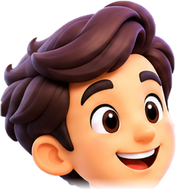
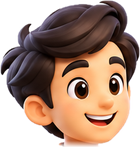
Slim Hector365 mascot

diff --git a/components/MascotGuide.js b/components/MascotGuide.js
@@ -7,10 +7,13 @@ import { useCallback, useEffect, useRef, useState } from "react";
 
 const NO_RULES = [];
 const KEY = "mascot_guide_on";
-const W = 64;
-const H = 92;
-const DOCK_SCALE = 0.74;
-const MOVE_MS = 800;
+const SCALE = 0.85; // mascot ka size: chhota/bada karna ho to sirf ye number badlo
+const VB_W = 40;
+const VB_H = 74;
+const W = Math.round(VB_W * SCALE);
+const H = Math.round(VB_H * SCALE);
+const DOCK_SCALE = 0.85;
+const MOVE_MS = 900;
 const ACTIVITIES = ["wipe", "sweep", "polish", "wave"];
 
 const RULES = [
@@ -22,6 +25,7 @@ const RULES = [
   [/delete|remove|hatao|hata do|cancel/, "Dhyan se! Ye hatane ke baad wapas nahi aayega."],
   [/save|update|submit|confirm|\bdone\b|bhej/, "Ye aapki bhari hui jaankari save kar dega."],
   [/search|find|khoj|dhoond/, "Yaha kaam ya naam likho, aapke shehar ke matching log dikh jayenge."],
+  [/dismiss|not now|later|abhi nahi/, "Ye is message ko abhi ke liye hata dega."],
   [/back|close|wapas|✕|×/, "Ye pichhli screen par wapas le jayega."],
   [/install/, "Ye app ko aapke phone ki home screen par laga dega, bilkul normal app ki tarah."],
   [/whatsapp/, "Ye seedha WhatsApp kholega, wahi se baat kar sakte ho."],
@@ -69,48 +73,54 @@ function findLogo() {
 const clamp = (v, a, b) => Math.max(a, Math.min(b, v));
 const home = () => ({ x: window.innerWidth - W - 14, y: window.innerHeight - H - 90 });
 
-// Poora chhota mascot: chehra (tumhari image se) + SVG body. Kapde par sirf "hector365".
+const SKIN = "#F4B88A";
+const ORANGE = "#F28A1E";
+const NAVY = "#243B6B";
+
+// Patla lamba mascot: chehra (tumhari image se) + SVG body. Kapde par sirf "Hector365".
 function Character({ pose, flip }) {
   return (
-    <svg className={`mc mc-${pose}${flip ? " mc-flip" : ""}`} viewBox="0 0 64 92" width={W} height={H}
+    <svg className={`mc mc-${pose}${flip ? " mc-flip" : ""}`} viewBox={`0 0 ${VB_W} ${VB_H}`} width={W} height={H}
       style={{ display: "block", overflow: "visible", transform: flip ? "scaleX(-1)" : "none" }} aria-hidden="true">
-      <ellipse cx="32" cy="89" rx="17" ry="3" fill="rgba(40,30,70,.2)" />
+      <ellipse cx="20" cy="70.8" rx="10" ry="1.7" fill="rgba(30,30,60,.2)" />
       <g className="mc-bob">
-        {/* legs */}
-        <g className="mc-l-leg"><rect x="22" y="62" width="8" height="19" rx="3.5" fill="#3A3470" /><rect x="19.5" y="78" width="12.5" height="7" rx="3.5" fill="#25203F" /></g>
-        <g className="mc-r-leg"><rect x="34" y="62" width="8" height="19" rx="3.5" fill="#3A3470" /><rect x="32" y="78" width="12.5" height="7" rx="3.5" fill="#25203F" /></g>
-        {/* torso + apron */}
-        <rect x="17" y="43" width="30" height="26" rx="9" fill="#FBFAFF" />
-        <path d="M21 49 h22 v19 a4 4 0 0 1 -4 4 h-14 a4 4 0 0 1 -4 -4z" fill="#5B34B5" />
-        <path d="M23 49 L27 43 M41 49 L37 43" stroke="#5B34B5" strokeWidth="2.2" strokeLinecap="round" />
-        <text className="mc-tx" x="32" y="62.5" fontSize="5.4" fontWeight="800" fill="#FFFFFF" textAnchor="middle"
-          textLength="19" lengthAdjust="spacingAndGlyphs" style={{ fontFamily: "Arial, Helvetica, sans-serif" }}>hector365</text>
+        <g className="mc-l-leg"><rect x="14.1" y="45.5" width="5.4" height="21" rx="2.5" fill={NAVY} /><rect x="12.6" y="64.2" width="8" height="4.2" rx="2.1" fill="#F6F6FA" stroke="#D6D6E2" strokeWidth=".3" /><rect x="12.6" y="66.2" width="8" height=".8" fill={ORANGE} /></g>
+        <g className="mc-r-leg"><rect x="20.5" y="45.5" width="5.4" height="21" rx="2.5" fill={NAVY} /><rect x="19.4" y="64.2" width="8" height="4.2" rx="2.1" fill="#F6F6FA" stroke="#D6D6E2" strokeWidth=".3" /><rect x="19.4" y="66.2" width="8" height=".8" fill={ORANGE} /></g>
+        {/* polo shirt */}
+        <path d="M11.5 31.5 Q11.5 28 15.5 28 H24.5 Q28.5 28 28.5 31.5 L27.6 46.5 H12.4Z" fill="#FBFAFF" stroke="#E7E4F0" strokeWidth=".3" />
+        <path d="M15.6 27.6 L20 33.8 L24.4 27.6 L22.8 27.1 L20 30.9 L17.2 27.1Z" fill={ORANGE} />
+        <text className="mc-tx" x="20" y="39.6" fontSize="4.1" fontWeight="800" fontStyle="italic" fill={NAVY} textAnchor="middle"
+          textLength="13.5" lengthAdjust="spacingAndGlyphs" style={{ fontFamily: "Arial, Helvetica, sans-serif" }}>Hector365</text>
+        <path d="M14 41.3 Q20 43.2 26 40.6" stroke={ORANGE} strokeWidth=".8" fill="none" strokeLinecap="round" />
         {/* neck + head */}
-        <rect x="28" y="38" width="8" height="9" rx="3" fill="#F2B98F" />
-        <g className="mc-head"><image href="/mascot.png" x="8.5" y="-4" width="47" height="50.5" /></g>
+        <rect x="17.4" y="23" width="5.2" height="7" rx="2" fill={SKIN} />
+        <g className="mc-head"><image href="/mascot.png" x="7.5" y="-1.5" width="25" height="26.3" /></g>
         {/* left arm */}
-        <g className="mc-l-arm"><rect x="12.5" y="47.5" width="7.5" height="12" rx="3.7" fill="#FBFAFF" /><rect x="12.5" y="56" width="7.5" height="3.6" rx="1.8" fill="#6B3FD4" /><circle cx="16.3" cy="63" r="3.7" fill="#F2B98F" /></g>
+        <g className="mc-l-arm">
+          <rect x="7.8" y="35.6" width="3.4" height="7.4" rx="1.7" fill={SKIN} /><circle cx="9.5" cy="43.4" r="2.1" fill={SKIN} />
+          <rect x="7" y="28.4" width="5" height="7.4" rx="2.4" fill="#FBFAFF" stroke="#E7E4F0" strokeWidth=".3" /><rect x="7" y="34.2" width="5" height="1.8" rx=".9" fill={ORANGE} />
+        </g>
         {/* broom (sweep) */}
-        <g className="mc-broom"><rect x="55" y="52" width="2" height="34" rx="1" fill="#A9743D" /><path d="M51 86 h10 l2 5 h-14z" fill="#E0B84A" /></g>
+        <g className="mc-broom"><rect x="33.6" y="30" width="1.3" height="39" rx=".6" fill="#A9743D" /><path d="M31.4 67.5 h6.1 l1.2 4 h-8.5z" fill="#E0B84A" /></g>
         {/* right arm */}
         <g className="mc-r-arm">
-          <rect className="mc-cloth" x="43" y="62" width="10" height="8" rx="2.5" fill="#F6D56A" stroke="#E0B84A" strokeWidth=".6" />
-          <rect x="44" y="47.5" width="7.5" height="12" rx="3.7" fill="#FBFAFF" /><rect x="44" y="56" width="7.5" height="3.6" rx="1.8" fill="#6B3FD4" />
-          <circle cx="47.8" cy="63" r="3.7" fill="#F2B98F" />
+          <rect className="mc-cloth" x="27.4" y="41.4" width="6.4" height="5.2" rx="1.6" fill="#F6D56A" stroke="#E0B84A" strokeWidth=".4" />
+          <rect x="28.6" y="35.6" width="3.4" height="7.4" rx="1.7" fill={SKIN} /><circle cx="30.3" cy="43.4" r="2.1" fill={SKIN} />
+          <rect x="28" y="28.4" width="5" height="7.4" rx="2.4" fill="#FBFAFF" stroke="#E7E4F0" strokeWidth=".3" /><rect x="28" y="34.2" width="5" height="1.8" rx=".9" fill={ORANGE} />
         </g>
       </g>
     </svg>
   );
 }
 
-export default function MascotGuide({ name = "Saathi", accent = "#6B3FD4", rules = NO_RULES }) {
+export default function MascotGuide({ name = "Saathi", accent = "#F28A1E", rules = NO_RULES }) {
   const [mounted, setMounted] = useState(false);
   const [on, setOn] = useState(true);
   const [pos, setPos] = useState({ x: 0, y: 0 });
   const [left, setLeft] = useState(false);
   const [moving, setMoving] = useState(false);
   const [hidden, setHidden] = useState(false);
-  const [bubble, setBubble] = useState(null);
+  const [bubble, setBubble] = useState(null); // { text, kind: tip | ask | note }
   const [typed, setTyped] = useState("");
   const [act, setAct] = useState(0);
   const posRef = useRef(pos);
@@ -133,8 +143,8 @@ export default function MascotGuide({ name = "Saathi", accent = "#6B3FD4", rules
     moveTimer.current = setTimeout(() => setMoving(false), reduce ? 0 : MOVE_MS);
   }, [reduce]);
 
-  const say = useCallback((text, ms) => {
-    setBubble({ text });
+  const say = useCallback((text, ms, kind = "tip") => {
+    setBubble({ text, kind });
     clearTimeout(hideTimer.current);
     hideTimer.current = setTimeout(() => setBubble(null), ms || Math.max(5200, text.length * 75));
   }, []);
@@ -145,7 +155,7 @@ export default function MascotGuide({ name = "Saathi", accent = "#6B3FD4", rules
     let isOn = true;
     try { isOn = localStorage.getItem(KEY) !== "0"; } catch (e) { /* ignore */ }
     setOn(isOn);
-    setPos(isOn ? { x: window.innerWidth + 10, y: window.innerHeight - H - 90 } : { x: 8, y: 8 });
+    setPos(isOn ? { x: window.innerWidth + 10, y: window.innerHeight - H - 90 } : { x: 8, y: 2 });
     setMounted(true);
     if (!isOn) return;
     let greeted = false;
@@ -155,7 +165,7 @@ export default function MascotGuide({ name = "Saathi", accent = "#6B3FD4", rules
       if (greeted || !onRef.current) return;
       try { sessionStorage.setItem("mascot_greeted", "1"); } catch (e) { /* ignore */ }
       say(`Namaste! Main ${name} hoon. Kahin bhi dabao, main wahan aakar samjha dunga.`, 6500);
-    }, 3600);
+    }, 3700);
     return () => { clearTimeout(t1); clearTimeout(t2); };
     // eslint-disable-next-line react-hooks/exhaustive-deps
   }, []);
@@ -168,7 +178,7 @@ export default function MascotGuide({ name = "Saathi", accent = "#6B3FD4", rules
       i += 1;
       setTyped(bubble.text.slice(0, i));
       if (i >= bubble.text.length) clearInterval(id);
-    }, reduce ? 0 : 22);
+    }, reduce ? 0 : 24);
     return () => clearInterval(id);
   }, [bubble, reduce]);
 
@@ -188,7 +198,7 @@ export default function MascotGuide({ name = "Saathi", accent = "#6B3FD4", rules
       const vw = window.innerWidth, vh = window.innerHeight;
       const px = e.clientX || vw / 2, py = e.clientY || vh / 2;
       const x = px + W + 20 > vw ? clamp(px - W - 12, 4, vw - W - 4) : clamp(px + 10, 4, vw - W - 4);
-      const y = py < 140 ? clamp(py + 18, 4, vh - H - 4) : clamp(py - H - 4, 4, vh - H - 4);
+      const y = py < 120 ? clamp(py + 16, 4, vh - H - 4) : clamp(py - H - 2, 4, vh - H - 4);
       moveTo(x, y);
       setBubble(null);
       setTimeout(() => { if (onRef.current) say(text); }, reduce ? 0 : MOVE_MS - 100);
@@ -204,7 +214,7 @@ export default function MascotGuide({ name = "Saathi", accent = "#6B3FD4", rules
       if (a && /^(input|textarea|select)$/i.test(a.tagName)) return;
       const vw = window.innerWidth, vh = window.innerHeight;
       moveTo(clamp(Math.random() * (vw - W - 20) + 6, 6, vw - W - 6), vh - H - 90);
-    }, 16000);
+    }, 17000);
     return () => clearInterval(id);
   }, [moveTo]);
 
@@ -215,8 +225,8 @@ export default function MascotGuide({ name = "Saathi", accent = "#6B3FD4", rules
       const r = findLogo();
       if (r) {
         setHidden(false);
-        const x = clamp(r.right - 8, 0, window.innerWidth - W);
-        const y = Math.max(2, r.bottom + 4 - H);
+        const x = clamp(r.right - 4, 0, window.innerWidth - W);
+        const y = Math.max(2, r.bottom + 3 - H);
         const cur = posRef.current;
         if (Math.abs(cur.x - x) > 1 || Math.abs(cur.y - y) > 1) moveTo(x, y);
       } else if (window.scrollY < 60) {
@@ -229,7 +239,7 @@ export default function MascotGuide({ name = "Saathi", accent = "#6B3FD4", rules
     place();
     const tl = setTimeout(() => setLeft(true), reduce ? 0 : MOVE_MS + 80); // logo ki taraf muh
     const id = setInterval(place, 500);
-    const id2 = setInterval(() => setAct((a) => (a + 1) % ACTIVITIES.length), 4500);
+    const id2 = setInterval(() => setAct((a) => (a + 1) % ACTIVITIES.length), 5000);
     window.addEventListener("resize", place);
     return () => { clearTimeout(tl); clearInterval(id); clearInterval(id2); window.removeEventListener("resize", place); };
   }, [on, moveTo, reduce]);
@@ -237,19 +247,24 @@ export default function MascotGuide({ name = "Saathi", accent = "#6B3FD4", rules
   function turnOff() {
     setOn(false); persist(false);
     setLeft(true);
-    say("Theek hai! Main logo ke paas ja raha hoon. Wahan safai karta rahunga. Mujhe dabaoge to wapas guide karunga.", 4200);
+    say("Theek hai! Main logo ke paas ja raha hoon. Mujhe dabaoge to wapas guide karunga.", 3800, "note");
   }
 
   function turnOn() {
     setOn(true); persist(true);
     setLeft(false);
+    setBubble(null);
     const h = home();
     moveTo(h.x, h.y);
     setTimeout(() => say("Main wapas aa gaya! Kahin bhi dabao, main wahan aakar samjha dunga."), reduce ? 0 : MOVE_MS - 100);
   }
 
   function onMascotClick() {
-    if (!on) { turnOn(); return; }
+    if (!on) {
+      if (bubble && bubble.kind === "ask") { setBubble(null); return; }
+      say("Kya main aapko guide karun?", 9000, "ask");
+      return;
+    }
     if (bubble) { setBubble(null); return; }
     say("Kisi bhi button ya link ko dabao, main wahan aakar batata hoon ki wo kya karta hai.");
   }
@@ -257,95 +272,102 @@ export default function MascotGuide({ name = "Saathi", accent = "#6B3FD4", rules
   if (!mounted) return null;
 
   const vw = typeof window !== "undefined" ? window.innerWidth : 360;
-  const bw = Math.min(250, vw - 20);
+  const bw = Math.min(205, vw - 20);
   const bx = clamp(pos.x + W / 2 - bw / 2, 10, vw - bw - 10) - pos.x;
-  const above = pos.y > 150;
-  const tail = clamp(W / 2 - bx - 6, 14, bw - 24);
+  const above = pos.y > 110;
+  const tail = clamp(W / 2 - bx - 5, 12, bw - 22);
   const activity = ACTIVITIES[act];
-  const pose = on ? (moving ? "walk" : bubble ? "talk" : "idle") : (moving ? "walk" : activity);
-  const showSparks = !on && (activity === "wipe" || activity === "polish");
+  const pose = on ? (moving ? "walk" : bubble ? "talk" : "idle") : (moving ? "walk" : bubble ? "talk" : activity);
+  const showSparks = !on && !bubble && (activity === "wipe" || activity === "polish");
+  const btn = { whiteSpace: "nowrap", border: "none", borderRadius: 999, padding: "4px 11px", fontWeight: 700, fontSize: 11, cursor: "pointer" };
 
   return (
     <div data-mascot="1" aria-live="polite" style={{
       position: "fixed", left: 0, top: 0, zIndex: 9000, pointerEvents: "none",
       transform: `translate(${pos.x}px, ${pos.y}px)`,
-      transition: reduce ? "none" : `transform ${MOVE_MS}ms cubic-bezier(.4,.1,.2,1), opacity .3s`,
+      transition: reduce ? "none" : `transform ${MOVE_MS}ms cubic-bezier(.45,.05,.3,1), opacity .3s`,
       opacity: hidden ? 0 : 1, width: W, height: H,
     }}>
       <style>{`
         .mc *{transform-box:view-box}
-        .mc-l-leg{transform-origin:26px 62px}.mc-r-leg{transform-origin:38px 62px}
-        .mc-l-arm{transform-origin:16px 49px}.mc-r-arm{transform-origin:48px 49px}
-        .mc-head{transform-origin:32px 42px}.mc-bob{transform-origin:32px 88px}
-        .mc-broom{transform-origin:56px 54px;display:none}.mc-cloth{display:none}
-        .mc-flip .mc-tx{transform:scaleX(-1);transform-origin:32px 61px}
-        @keyframes mcSwing{from{transform:rotate(-26deg)}to{transform:rotate(26deg)}}
-        @keyframes mcBob{from{transform:translateY(0)}to{transform:translateY(-2px)}}
-        @keyframes mcBreath{0%,100%{transform:translateY(0)}50%{transform:translateY(-1.2px)}}
-        @keyframes mcWaveA{from{transform:rotate(-140deg)}to{transform:rotate(-172deg)}}
-        @keyframes mcRub{from{transform:rotate(-100deg)}to{transform:rotate(-138deg)}}
-        @keyframes mcNod{from{transform:rotate(-3deg)}to{transform:rotate(3deg)}}
-        @keyframes mcSwish{from{transform:rotate(-14deg)}to{transform:rotate(12deg)}}
+        .mc-l-leg{transform-origin:16.8px 46px}.mc-r-leg{transform-origin:23.2px 46px}
+        .mc-l-arm{transform-origin:10.6px 30px}.mc-r-arm{transform-origin:29.4px 30px}
+        .mc-head{transform-origin:20px 24px}.mc-bob{transform-origin:20px 70px}
+        .mc-broom{transform-origin:34.2px 31px;display:none}.mc-cloth{display:none}
+        .mc-flip .mc-tx{transform:scaleX(-1);transform-origin:20px 38.5px}
+        .mc-l-leg,.mc-r-leg,.mc-l-arm,.mc-r-arm,.mc-head,.mc-bob,.mc-broom{transition:transform .5s ease}
+        @keyframes mcSwing{from{transform:rotate(-17deg)}to{transform:rotate(17deg)}}
+        @keyframes mcSwingArm{from{transform:rotate(-13deg)}to{transform:rotate(13deg)}}
+        @keyframes mcBob{from{transform:translateY(0)}to{transform:translateY(-.9px)}}
+        @keyframes mcBreath{0%,100%{transform:translateY(0)}50%{transform:translateY(-.5px)}}
+        @keyframes mcTalkArm{from{transform:rotate(-38deg)}to{transform:rotate(-72deg)}}
+        @keyframes mcWave{from{transform:rotate(-146deg)}to{transform:rotate(-170deg)}}
+        @keyframes mcRub{from{transform:rotate(-84deg)}to{transform:rotate(-112deg)}}
+        @keyframes mcPolish{from{transform:rotate(-104deg)}to{transform:rotate(-126deg)}}
+        @keyframes mcNod{from{transform:rotate(-2deg)}to{transform:rotate(2.5deg)}}
+        @keyframes mcSwish{from{transform:rotate(-8deg)}to{transform:rotate(7deg)}}
         @keyframes mcTwinkle{0%,100%{opacity:0;transform:scale(.4) rotate(0)}50%{opacity:1;transform:scale(1.1) rotate(35deg)}}
-        .mc-walk .mc-bob{animation:mcBob .19s ease-in-out infinite alternate}
-        .mc-walk .mc-l-leg,.mc-walk .mc-r-arm{animation:mcSwing .38s ease-in-out infinite alternate}
-        .mc-walk .mc-r-leg,.mc-walk .mc-l-arm{animation:mcSwing .38s ease-in-out infinite alternate-reverse}
-        .mc-idle .mc-bob,.mc-talk .mc-bob{animation:mcBreath 2.6s ease-in-out infinite}
-        .mc-talk .mc-r-arm{animation:mcWaveA .5s ease-in-out infinite alternate}
-        .mc-talk .mc-head,.mc-wave .mc-head{animation:mcNod .45s ease-in-out infinite alternate}
-        .mc-wave .mc-bob,.mc-wipe .mc-bob,.mc-polish .mc-bob,.mc-sweep .mc-bob{animation:mcBreath 1.6s ease-in-out infinite}
-        .mc-wave .mc-r-arm{animation:mcWaveA .45s ease-in-out infinite alternate}
-        .mc-wipe .mc-r-arm{animation:mcRub .32s ease-in-out infinite alternate}
+        .mc-walk .mc-bob{animation:mcBob .31s ease-in-out infinite alternate}
+        .mc-walk .mc-l-leg,.mc-walk .mc-r-arm{animation:mcSwing .62s ease-in-out infinite alternate}
+        .mc-walk .mc-r-leg,.mc-walk .mc-l-arm{animation:mcSwing .62s ease-in-out infinite alternate-reverse}
+        .mc-walk .mc-r-arm,.mc-walk .mc-l-arm{animation-name:mcSwingArm}
+        .mc-idle .mc-bob,.mc-talk .mc-bob,.mc-wave .mc-bob,.mc-wipe .mc-bob,.mc-polish .mc-bob,.mc-sweep .mc-bob{animation:mcBreath 3.2s ease-in-out infinite}
+        .mc-talk .mc-r-arm{animation:mcTalkArm 1s ease-in-out infinite alternate}
+        .mc-talk .mc-head,.mc-wave .mc-head{animation:mcNod 1.3s ease-in-out infinite alternate}
+        .mc-wave .mc-r-arm{animation:mcWave .8s ease-in-out infinite alternate}
+        .mc-wipe .mc-r-arm{animation:mcRub .65s ease-in-out infinite alternate}
+        .mc-polish .mc-r-arm{animation:mcPolish .5s ease-in-out infinite alternate}
         .mc-wipe .mc-cloth,.mc-polish .mc-cloth{display:block}
-        .mc-polish .mc-r-arm{animation:mcWaveA .28s ease-in-out infinite alternate}
-        .mc-sweep .mc-broom{display:block;animation:mcSwish .6s ease-in-out infinite alternate}
-        .mc-sweep .mc-r-arm{transform:rotate(-30deg)}.mc-sweep .mc-l-arm{transform:rotate(-24deg)}
-        .mg-spark{position:absolute;color:#F2B83C;font-size:13px;line-height:1;animation:mcTwinkle 1.2s ease-in-out infinite}
+        .mc-sweep .mc-broom{display:block;animation:mcSwish 1.1s ease-in-out infinite alternate}
+        .mc-sweep .mc-r-arm{transform:rotate(-20deg)}.mc-sweep .mc-l-arm{transform:rotate(-14deg)}
+        .mg-spark{position:absolute;color:#F2B83C;font-size:11px;line-height:1;animation:mcTwinkle 1.4s ease-in-out infinite}
         @media (prefers-reduced-motion: reduce){.mc *,.mg-spark{animation:none!important}}
       `}</style>
-      {bubble && on && (
+      {bubble && (
         <div data-mascot="1" style={{
           position: "absolute", left: bx, width: bw, pointerEvents: "auto",
           ...(above ? { bottom: H + 6 } : { top: H + 6 }),
-          background: "#fff", color: "#241F16", border: `2px solid ${accent}`, borderRadius: 16,
-          padding: "10px 12px", boxShadow: "0 10px 28px rgba(40,30,70,.22)", fontSize: 13.5, lineHeight: 1.45,
+          background: "#fff", color: "#241F16", border: `1.5px solid ${accent}`, borderRadius: 14,
+          padding: "8px 10px", boxShadow: "0 8px 22px rgba(40,30,20,.2)", fontSize: 12, lineHeight: 1.4,
           fontFamily: "inherit",
         }}>
           <span style={{
-            position: "absolute", left: tail, width: 12, height: 12, background: "#fff", transform: "rotate(45deg)",
-            ...(above ? { bottom: -8, borderRight: `2px solid ${accent}`, borderBottom: `2px solid ${accent}` }
-              : { top: -8, borderLeft: `2px solid ${accent}`, borderTop: `2px solid ${accent}` }),
+            position: "absolute", left: tail, width: 10, height: 10, background: "#fff", transform: "rotate(45deg)",
+            ...(above ? { bottom: -6.5, borderRight: `1.5px solid ${accent}`, borderBottom: `1.5px solid ${accent}` }
+              : { top: -6.5, borderLeft: `1.5px solid ${accent}`, borderTop: `1.5px solid ${accent}` }),
           }} />
-          <div style={{ fontWeight: 700, color: accent, fontSize: 12, marginBottom: 3 }}>{name}</div>
+          <div style={{ fontWeight: 700, color: accent, fontSize: 11, marginBottom: 2 }}>{name}</div>
           <div style={{ position: "relative" }}>
             <span style={{ visibility: "hidden" }}>{bubble.text}</span>
             <span style={{ position: "absolute", left: 0, top: 0 }}>{typed}</span>
           </div>
-          <div style={{ display: "flex", justifyContent: "space-between", gap: 8, marginTop: 8 }}>
-            <button data-mascot="1" onClick={() => setBubble(null)}
-              style={{ background: accent, color: "#fff", border: "none", borderRadius: 999, padding: "5px 12px", fontWeight: 700, fontSize: 12, cursor: "pointer" }}>
-              Samajh gaya
-            </button>
-            <button data-mascot="1" onClick={turnOff}
-              style={{ background: "none", border: "none", color: "#6B6259", fontWeight: 700, fontSize: 12, cursor: "pointer", padding: "5px 4px" }}>
-              Guide band karo
-            </button>
-          </div>
+          {bubble.kind === "tip" && (
+            <div style={{ display: "flex", justifyContent: "space-between", gap: 6, marginTop: 7 }}>
+              <button data-mascot="1" onClick={() => setBubble(null)} style={{ ...btn, background: accent, color: "#fff" }}>Samajh gaya</button>
+              <button data-mascot="1" onClick={turnOff} style={{ ...btn, background: "none", color: "#6B6259", padding: "4px 2px" }}>Guide band karo</button>
+            </div>
+          )}
+          {bubble.kind === "ask" && (
+            <div style={{ display: "flex", gap: 8, marginTop: 7 }}>
+              <button data-mascot="1" onClick={turnOn} style={{ ...btn, background: accent, color: "#fff" }}>Haan</button>
+              <button data-mascot="1" onClick={() => setBubble(null)} style={{ ...btn, background: "none", color: "#6B6259" }}>Abhi nahi</button>
+            </div>
+          )}
         </div>
       )}
       {showSparks && (
         <>
-          <span className="mg-spark" style={{ left: -16, top: 34 }}>✦</span>
-          <span className="mg-spark" style={{ left: -32, top: 50, animationDelay: ".4s", fontSize: 10 }}>✦</span>
-          <span className="mg-spark" style={{ left: -8, top: 56, animationDelay: ".8s", fontSize: 9 }}>✦</span>
+          <span className="mg-spark" style={{ left: -12, top: 18 }}>✦</span>
+          <span className="mg-spark" style={{ left: -22, top: 30, animationDelay: ".5s", fontSize: 9 }}>✦</span>
+          <span className="mg-spark" style={{ left: -6, top: 36, animationDelay: "1s", fontSize: 8 }}>✦</span>
         </>
       )}
-      <div style={{ transform: on ? "none" : `scale(${DOCK_SCALE})`, transformOrigin: "50% 100%", transition: reduce ? "none" : "transform .5s", filter: "drop-shadow(0 4px 6px rgba(40,30,70,.22))" }}>
+      <div style={{ transform: on ? "none" : `scale(${DOCK_SCALE})`, transformOrigin: "50% 100%", transition: reduce ? "none" : "transform .5s", filter: "drop-shadow(0 3px 4px rgba(30,30,60,.2))" }}>
         <Character pose={pose} flip={left} />
       </div>
       <button data-mascot="1" onClick={onMascotClick} aria-label={on ? `${name} guide` : `${name} guide chalu karo`}
         style={{
-          position: "absolute", left: 8, top: 10, width: 48, height: 78, padding: 0, border: "none", background: "transparent",
+          position: "absolute", left: 2, top: 2, width: W - 4, height: H - 4, padding: 0, border: "none", background: "transparent",
           cursor: "pointer", pointerEvents: "auto", WebkitTapHighlightColor: "transparent",
         }} />
     </div>

diff --git a/app/layout.js b/app/layout.js
@@ -38,7 +38,7 @@ export default function RootLayout({ children }) {
           </LanguageProvider>
         </AuthProvider>
         <PwaInstallPrompt />
-        <MascotGuide name="Verilo Saathi" accent="#1F6F52" />
+        <MascotGuide name="Verilo Saathi" accent="#F28A1E" />
         <script
           dangerouslySetInnerHTML={{
             __html: `
